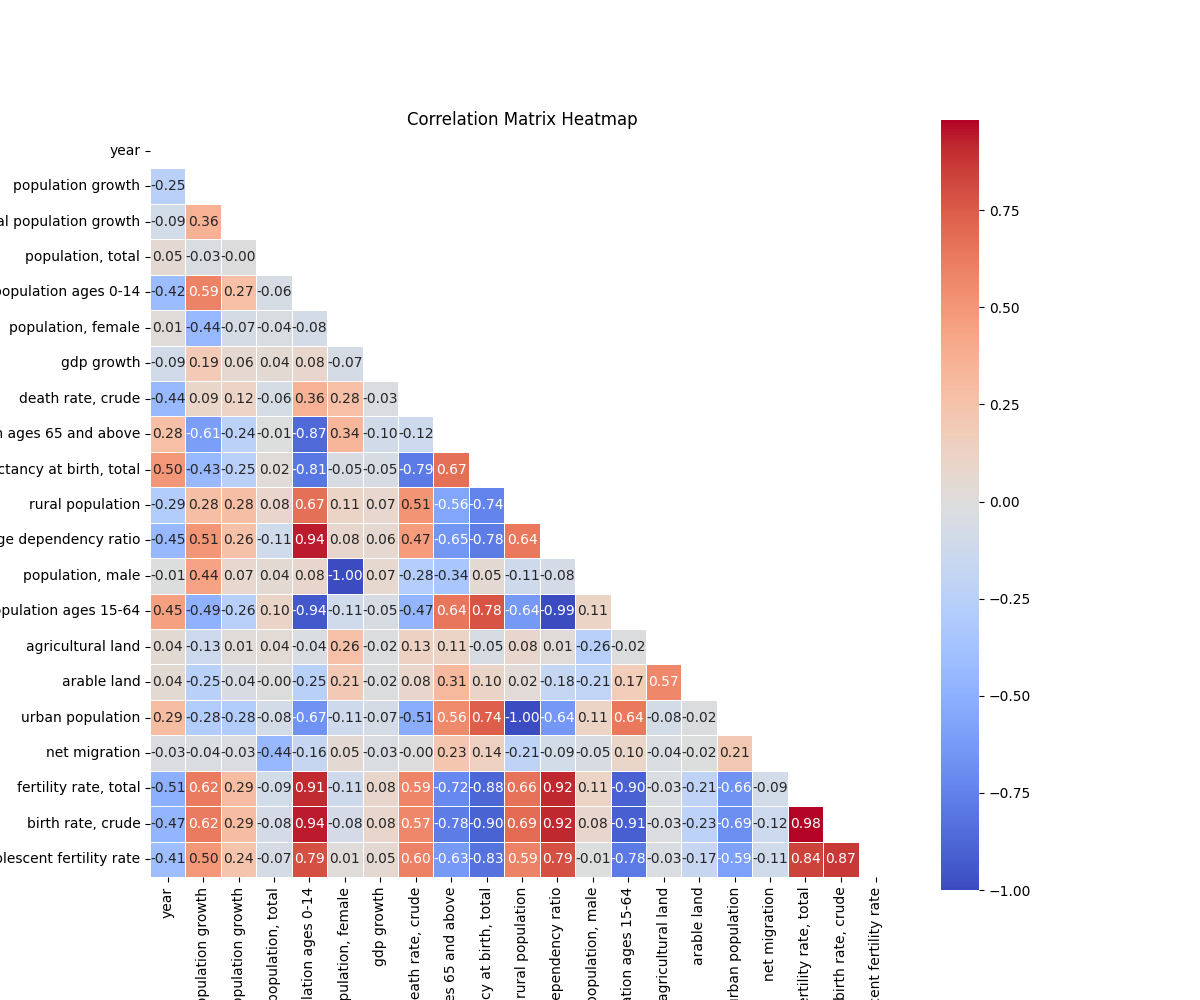
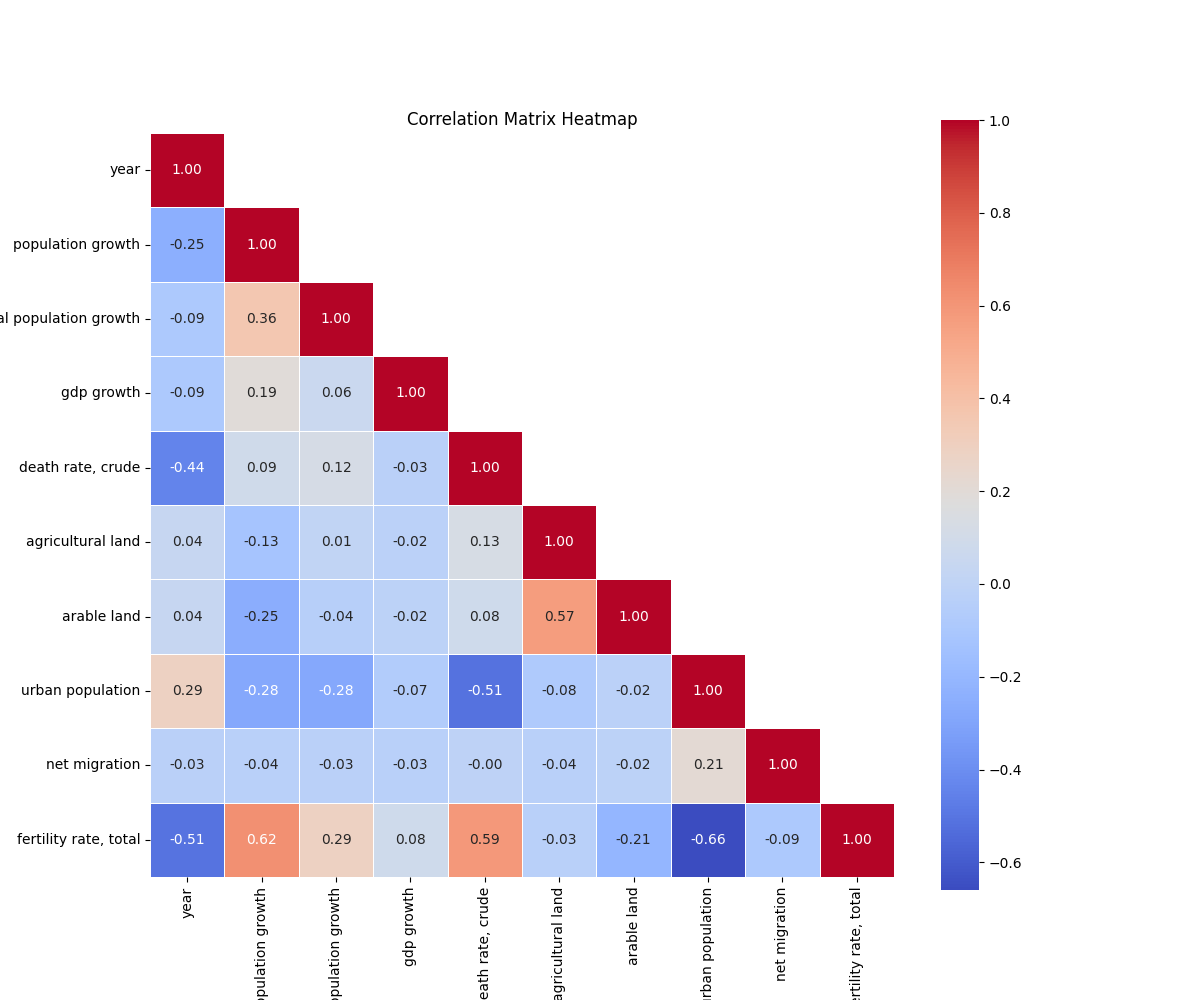
try exclude high correlation features

diff --git a/data_science/feature_engineering/correlation_matrix_features.py b/data_science/feature_engineering/correlation_matrix_features.py
@@ -5,7 +5,7 @@ import seaborn as sns
 import matplotlib.pyplot as plt
 from matplotlib.figure import Figure
 
-from typing import List, Tuple
+from typing import List, Tuple, Dict
 import numpy as np
 
 import pprint
@@ -18,27 +18,60 @@ settings = DatasetCreatorSettings()
 
 
 # Load the dataset (replace 'your_dataset.csv' with the actual file path)
+HIGHLY_CORRELATED_COLUMNS: List[str] = [
+    "life expectancy at birth, total",
+    "age dependency ratio",
+    "rural population",
+    "birth rate, crude",
+    "adolescent fertility rate",
+]
 
 
-def create_correlation_matrix(dataset_path: str) -> pd.DataFrame:
+def create_correlation_matrix(
+    dataset_path: str,
+    exclude_targets: bool = True,
+    exclude_highly_correlated: bool = True,
+) -> pd.DataFrame:
+    """
+    Create a correlation matrix from the dataset.
+
+    Args:
+        dataset_path (str): Path to the existing dataset.
+        exclude_targets (bool): Whether to exclude target features. Defaults to True.
+
+    Returns:
+        out: pd.DataFrame: Correlation matrix datframe.
+    """
     df = pd.read_csv(dataset_path)
 
-    stateless_df = df.drop(columns=["country name"])
+    if exclude_targets:
+        # Exclude target features
+        df = df.drop(columns=settings.ALL_POSSIBLE_TARGET_FEATURES)
+
+    # Drop columns with high correlation
+    if exclude_highly_correlated:
+        df = df.drop(columns=HIGHLY_CORRELATED_COLUMNS)
+
+    df = df.drop(
+        columns=["country name"]
+    )  # remove this because it is not numerical feature
 
     # Compute the correlation matrix
-    corr_matrix = stateless_df.corr()
+    corr_matrix = df.corr()
 
     return corr_matrix
 
 
 def display_corr_matrix(
-    corr_matrix: pd.DataFrame, save_path: str | None = None, only_triangle: bool = False
+    corr_matrix: pd.DataFrame,
+    save_path: str | None = None,
+    only_triangle: bool = False,
 ) -> Figure:
 
     # Create a mask for the upper triangle
     mask = None
     if only_triangle:
-        mask = np.triu(np.ones_like(corr_matrix, dtype=bool))
+        mask = np.triu(np.ones_like(corr_matrix, dtype=bool), k=1)
 
     # Plot the heatmap
     corr_matrix_fig = plt.figure(figsize=(12, 10))
@@ -61,7 +94,8 @@ def display_corr_matrix(
 
 
 def get_highly_correlated_features(
-    corr_matrix: pd.DataFrame, threshold: float = 0.8
+    corr_matrix: pd.DataFrame,
+    threshold: float = 0.8,
 ) -> List[Tuple[str, str]]:
     """
     Get a list of highly correlated features from the correlation matrix.
@@ -83,7 +117,35 @@ def get_highly_correlated_features(
     return correlated_pairs
 
 
-def main():
+def convert_highly_correlated_features_to_dict(
+    highly_correlated_features: List[Tuple[str, str]],
+) -> Dict[str, List[str]]:
+    """
+    Convert a list of highly correlated features into a dictionary.
+
+    Args:
+        highly_correlated_features (list): A list of tuples containing pairs of highly correlated features.
+
+    Returns:
+        dict: A dictionary where the keys are feature names and the values are lists of correlated features.
+    """
+    highly_correlated_dict: Dict[str, List[str]] = {}
+
+    # For each feature find hihgly correlated features
+    for feature1, feature2 in highly_correlated_features:
+
+        # Create a dictionary entry for feature1 if it doesn't exist
+        if feature1 not in highly_correlated_dict:
+            highly_correlated_dict[feature1] = []
+
+        # Append corrlated feature2 to the list of feature1
+        highly_correlated_dict[feature1].append(feature2)
+
+    # Return transformed dictionaryy
+    return highly_correlated_dict
+
+
+def main(show_plot: bool = False) -> None:
     DATASET_PATH = os.path.join(
         settings.save_dataset_path,
         f"dataset_{settings.dataset_version}",
@@ -101,14 +163,27 @@ def main():
         ),
         only_triangle=True,
     )
-    plt.show()
 
     higly_correlated_features = get_highly_correlated_features(
-        corr_matrix=corr_matrix, threshold=0.9
+        corr_matrix=corr_matrix, threshold=0.8
     )
 
+    higly_correlated_features_dict = convert_highly_correlated_features_to_dict(
+        higly_correlated_features
+    )
+
+    print("-" * 100)
+    print("Highly correlated feature pairs:")
     pprint.pprint(higly_correlated_features)
+
+    print("-" * 100)
+
+    print("Highly correlated features dictionary:")
+    pprint.pprint(higly_correlated_features_dict)
+
+    if show_plot:
+        plt.show()
 
 
 if __name__ == "__main__":
-    main()
+    main(show_plot=True)

diff --git a/config.py b/config.py
@@ -7,6 +7,16 @@ from typing import Literal, Dict, List
 # Custom settings
 DATASET_VERSION: Literal["v0", "v1", "v2"] = "v2"
 
+ALL_POSSIBLE_TARGET_FEATURES: List[str] = [
+    "population, total",
+    # "population growth",
+    "population ages 15-64",
+    "population ages 0-14",
+    "population ages 65 and above",
+    "population, female",
+    "population, male",
+]
+
 
 def get_trained_models_dir() -> DirectoryPath:
     trained_models_dir = os.path.join(os.path.abspath("."), "trained_models")
@@ -51,15 +61,7 @@ class Config(BaseSettings):
             "gender_model": "gender_core_pipeline",
         }
 
-    ALL_POSSIBLE_TARGET_FEATURES: List[str] = [
-        "population, total",
-        # "population growth",
-        "population ages 15-64",
-        "population ages 0-14",
-        "population ages 65 and above",
-        "population, female",
-        "population, male",
-    ]
+    ALL_POSSIBLE_TARGET_FEATURES: List[str] = ALL_POSSIBLE_TARGET_FEATURES
 
 
 def get_data_science_dir() -> DirectoryPath:
@@ -123,3 +125,5 @@ class DatasetCreatorSettings(BaseSettings):
             get_data_science_dir(), DATASET_VERSION
         ),
     )
+
+    ALL_POSSIBLE_TARGET_FEATURES: List[str] = ALL_POSSIBLE_TARGET_FEATURES

diff --git a/local_model_benchmark/experiments/new_data_experiments.py b/local_model_benchmark/experiments/new_data_experiments.py
@@ -40,6 +40,16 @@ logger = logging.getLogger("benchmark")
 # 3. To exclude states? ... find out which population or what makes the problem.
 
 
+# Load the dataset (replace 'your_dataset.csv' with the actual file path)
+HIGHLY_CORRELATED_COLUMNS: List[str] = [
+    "life expectancy at birth, total",
+    "age dependency ratio",
+    "rural population",
+    "birth rate, crude",
+    "adolescent fertility rate",
+]
+
+
 class DataUsedForTraining(BaseExperiment):
     """
     Trains models using dfferent data:
@@ -53,7 +63,7 @@ class DataUsedForTraining(BaseExperiment):
     FEATURES: List[str] = [
         col.lower()
         for col in [
-            "year",
+            # "year",
             "Fertility rate, total",
             # "Population, total",
             "Net migration",
@@ -70,6 +80,7 @@ class DataUsedForTraining(BaseExperiment):
             "Adolescent fertility rate",
             "Life expectancy at birth, total",
         ]
+        if col.lower() not in HIGHLY_CORRELATED_COLUMNS
     ]
 
     BASE_LSTM_HYPERPARAMETERS: LSTMHyperparameters = get_core_parameters(

diff --git a/local_model_benchmark/experiment_results/DataUsedForTraining/README.md b/local_model_benchmark/experiment_results/DataUsedForTraining/README.md
@@ -3,3 +3,51 @@
 
 **Description:** Trains base LSTM models using data in 3 categories: single state data, group of states (e.g. by wealth divided states) and with all available states data.
 
+
+## ## Model comparision prediction plot
+In the next feagure you can see each model predictions compared to each other and the reference data.
+
+![## Model comparision prediction plot](./plots/state_prediction_comparions.png)
+
+## Per target metrics - model comparision
+```
+                     target           mae           mse          rmse            r2    state               model   rank
+18    fertility rate, total      0.125095  1.677263e-02      0.129509     -3.641157  Czechia    all_states_model   19.0
+8         population growth      0.426526  6.638808e-01      0.814789     -0.078902  Czechia  single_state_model   20.0
+5         agricultural land      0.310280  1.313032e-01      0.362358     -3.003984  Czechia  single_state_model   21.0
+0     fertility rate, total      0.313834  1.025096e-01      0.320171    -27.365459  Czechia  single_state_model   26.0
+26        population growth      0.792171  7.917190e-01      0.889786     -0.286658  Czechia    all_states_model   28.0
+9     fertility rate, total      0.398740  1.628433e-01      0.403538    -44.060411  Czechia  group_states_model   32.0
+7          urban population      0.471166  2.715304e-01      0.521086     -4.588985  Czechia  single_state_model   33.0
+17        population growth      0.832301  1.186747e+00      1.089379     -0.928635  Czechia  group_states_model   34.0
+6   rural population growth      0.747903  1.258004e+00      1.121608     -0.788078  Czechia  single_state_model   37.0
+22        death rate, crude      1.187074  1.559611e+00      1.248844     -0.237786  Czechia    all_states_model   42.0
+15  rural population growth      1.034247  1.640514e+00      1.280826     -1.331764  Czechia  group_states_model   47.0
+25         urban population      1.084119  1.207377e+00      1.098807    -23.851767  Czechia    all_states_model   48.0
+4         death rate, crude      0.944787  2.100336e+00      1.449254     -0.666934  Czechia  single_state_model   49.0
+2               arable land      1.104534  1.226393e+00      1.107426   -188.459981  Czechia  single_state_model   55.0
+12               gdp growth      2.771715  1.154899e+01      3.398380      0.032007  Czechia  group_states_model   59.0
+3                gdp growth      2.624101  1.179854e+01      3.434901      0.011090  Czechia  single_state_model   61.0
+24  rural population growth      1.533944  2.486146e+00      1.576752     -2.533711  Czechia    all_states_model   62.0
+20              arable land      1.193884  1.646148e+00      1.283023   -253.306158  Czechia    all_states_model   66.0
+13        death rate, crude      1.884223  4.877797e+00      2.208574     -2.871268  Czechia  group_states_model   66.0
+23        agricultural land      1.332259  1.929207e+00      1.388959    -57.829574  Czechia    all_states_model   67.0
+21               gdp growth      3.681825  1.492744e+01      3.863604     -0.251162  Czechia    all_states_model   70.0
+16         urban population      3.700789  1.411101e+01      3.756463   -289.450845  Czechia  group_states_model   88.0
+10            net migration   2740.544040  8.478274e+06   2911.747579     -3.030726  Czechia  group_states_model   89.0
+1             net migration   2797.172938  8.928029e+06   2987.980678     -3.244548  Czechia  single_state_model   93.0
+14        agricultural land      8.005597  6.425559e+01      8.015958  -1958.421230  Czechia  group_states_model   95.0
+11              arable land     10.707030  1.146569e+02     10.707798 -17711.842294  Czechia  group_states_model   99.0
+19            net migration  29951.977483  2.096671e+09  45789.421101   -995.795721  Czechia    all_states_model  106.0
+```
+
+
+## Overall metrics - model comparision
+```
+           mae           mse         rmse           r2    state               model  rank
+1   307.764298  9.420540e+05   326.956499 -2223.545018  Czechia  group_states_model   6.0
+0   311.568452  9.920051e+05   333.012475   -25.353976  Czechia  single_state_model   7.0
+2  3329.211984  2.329635e+08  5088.988932  -148.637077  Czechia    all_states_model  11.0
+```
+
+
